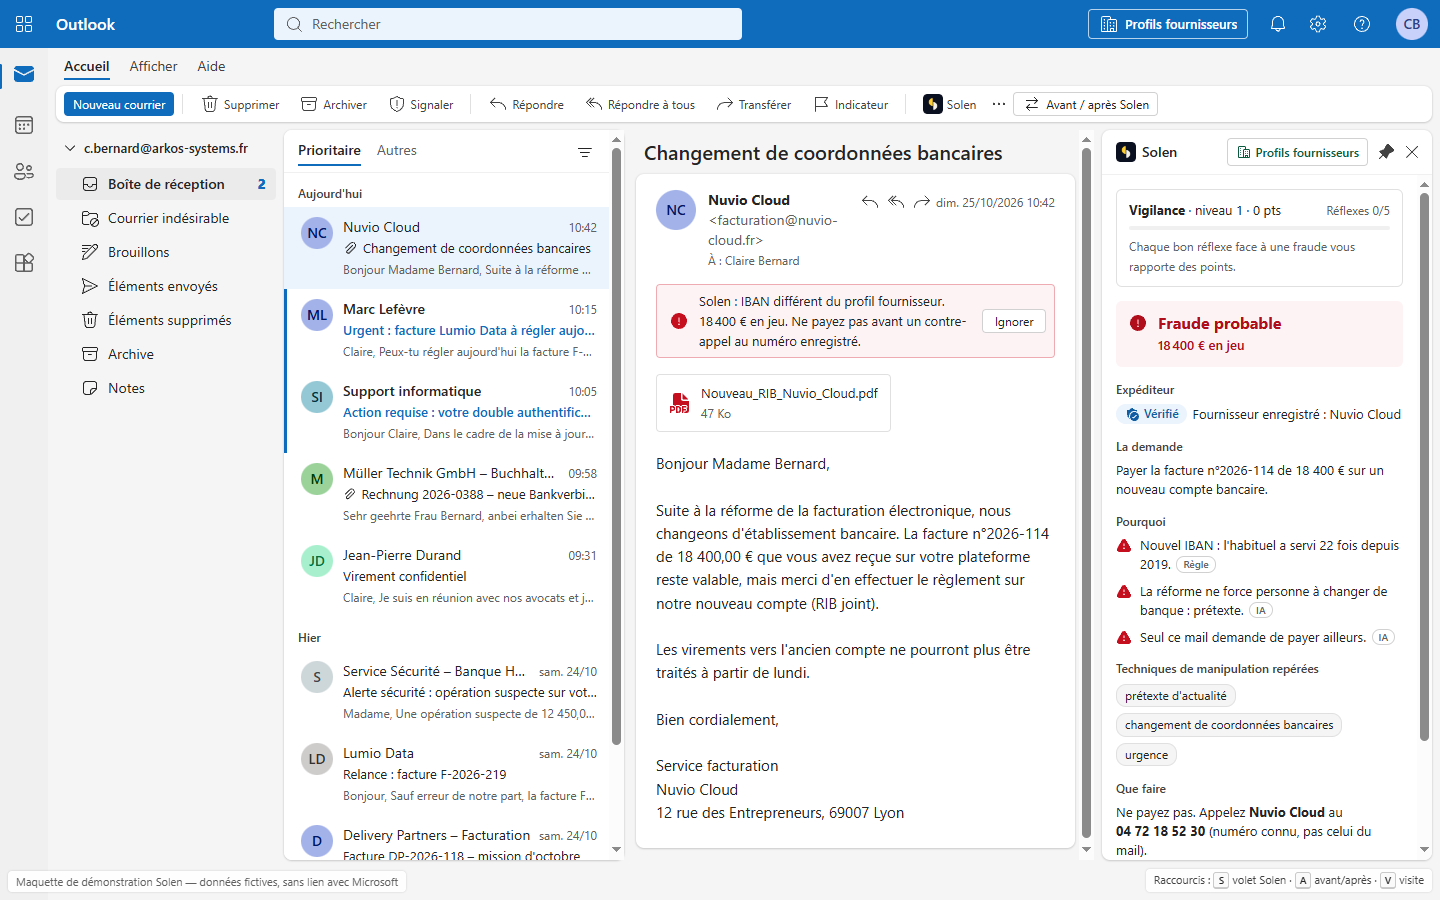
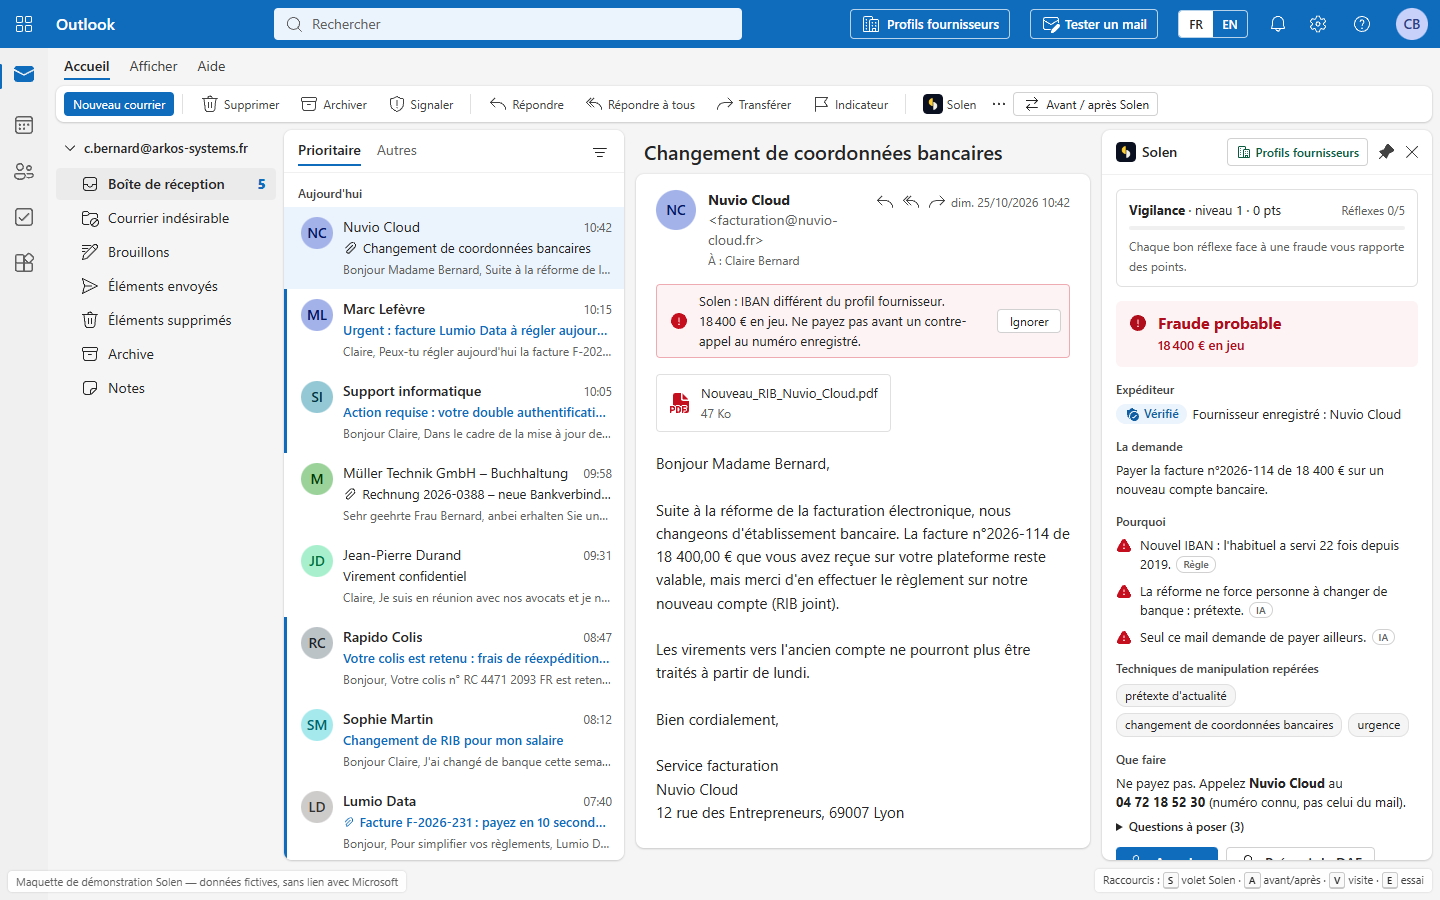
docs: refresh the GIFs and capture, add a "how Solen decides" diagram
- New guided tour GIFs recorded on the 17-mail inbox: French for
  README.md, English (?lang=en) for README.en.md.
- New static capture with the fake bank details mail and the pane.
- A Mermaid diagram in both READMEs and in the project README shows
  the code checks, the masked AI call and the stricter-of-two verdict.
- README.en.md links the demo in English; the project README explains
  the FR / EN switch and its one limit.

diff --git a/README.en.md b/README.en.md
@@ -2,13 +2,13 @@
 
 [![CI](https://github.com/barrage75/solen/actions/workflows/ci.yml/badge.svg)](https://github.com/barrage75/solen/actions/workflows/ci.yml) [![28 attacks tested](https://img.shields.io/badge/attacks%20tested-28%2F28-2ea44f)](https://solen-demo.vercel.app/attaques) ![TypeScript](https://img.shields.io/badge/TypeScript-strict-3178c6?logo=typescript&logoColor=white) ![Next.js 16](https://img.shields.io/badge/Next.js-16-000000?logo=nextdotjs)
 
-[![Try the live demo](https://img.shields.io/badge/%E2%96%B6%20Try%20the%20demo-solen--demo.vercel.app-FFD43B?style=for-the-badge&labelColor=0B1120)](https://solen-demo.vercel.app)
+[![Try the live demo](https://img.shields.io/badge/%E2%96%B6%20Try%20the%20demo-solen--demo.vercel.app-FFD43B?style=for-the-badge&labelColor=0B1120)](https://solen-demo.vercel.app/?lang=en)
 
 [Version française](README.md)
 
 Solen is a mailbox add-in that catches email scams: fake bank detail changes, CEO fraud, payroll diversion, gift card scams, fake bank advisers, fake parcel fees, fake tax refunds, fake invoices, booby-trapped attachments and QR codes, phishing and lookalike domains. It explains each fraud to the user in plain French. Deterministic code makes the call whenever money is at stake. The AI (Mistral) reads and explains the request, never sees an IBAN, and can only make the verdict stricter.
 
-![Guided tour of the demo: Solen stops a fake bank detail change, then a CEO fraud](solen/docs/demo-solen.gif)
+![Guided tour of the demo: Solen stops a fake bank detail change, then a CEO fraud](solen/docs/demo-solen-en.gif)
 
 Demo built during the Finaxys "Build What's Next" hackathon on 23 and 24 October 2026. All data is fictitious and the demo has no link with Microsoft.
 
@@ -18,11 +18,27 @@ Demo built during the Finaxys "Build What's Next" hackathon on 23 and 24 October
 - **The AI never sees an IBAN.** IBANs and account numbers are replaced with tokens before anything is sent to Mistral.
 - **28 attacks replayed on every test run.** Hidden IBANs, Cyrillic letters in domains, white-on-white prompt injection in a PDF, forged authentication headers, corrupted PDFs, hijacked reply threads. The red-team suite swaps the AI for a trapped one that always answers "safe", and checks that the code still blocks every attack. Watch them replayed live on the [28 attacks page](https://solen-demo.vercel.app/attaques).
 
+## How Solen decides
+
+```mermaid
+flowchart LR
+    M["Incoming email"] --> C["Code checks<br/>SPF, DKIM, DMARC<br/>lookalike domain, impersonation<br/>IBAN vs supplier profile<br/>usual amount"]
+    M -->|"if it is about money"| R["IBANs and account<br/>numbers masked"]
+    R --> IA["Mistral understands<br/>and explains the request"]
+    C --> V{"Final verdict:<br/>the stricter of the two"}
+    IA -->|"can only make it stricter"| V
+    V --> B["Red banner<br/>in the email"]
+    V --> P["Solen pane:<br/>the reasons"]
+    V --> T["Callback on the<br/>registered number"]
+```
+
+The code makes the call whenever money is at stake. The AI never sees an IBAN, and its opinion can never soften the code's verdict.
+
 ## Try the demo
 
-Online, nothing to install: **https://solen-demo.vercel.app**. An animated guided tour starts when the page opens.
+Online, nothing to install: **https://solen-demo.vercel.app/?lang=en**. The demo opens in English, and an animated guided tour starts right away. The FR / EN switch in the header changes the language at any time.
 
-You can also **try your own email** on the [Tester un mail](https://solen-demo.vercel.app/essayer) page: you play the attacker, start from ready-made examples, and Solen analyzes it with the same pane as in the mailbox.
+You can also **try your own email** on the [Try an email](https://solen-demo.vercel.app/essayer?lang=en) page: you play the attacker, start from ready-made examples, and Solen analyzes it with the same pane as in the mailbox.
 
 To run it locally, the Next.js app lives in the [`solen/`](solen/) folder.
 

diff --git a/solen/README.md b/solen/README.md
@@ -36,6 +36,18 @@ La boîte de réception contient 17 mails : 13 arnaques de types différents et 
 
 ## Qui décide quoi
 
+```mermaid
+flowchart LR
+    M["Mail reçu"] --> C["Contrôles du code<br/>SPF, DKIM, DMARC<br/>domaine sosie, usurpation<br/>IBAN comparé au profil<br/>montant habituel"]
+    M -->|"s'il parle d'argent"| R["IBAN et numéros<br/>de compte masqués"]
+    R --> IA["Mistral comprend<br/>la demande et l'explique"]
+    C --> V{"Verdict final :<br/>le plus sévère des deux"}
+    IA -->|"peut seulement aggraver"| V
+    V --> B["Bandeau rouge<br/>dans le mail"]
+    V --> P["Volet Solen :<br/>les raisons"]
+    V --> T["Rappel au<br/>numéro enregistré"]
+```
+
 - **Le code** : authentification de l'expéditeur (SPF, DKIM, DMARC), domaine sosie, usurpation d'un dirigeant, comparaison de l'IBAN avec le profil fournisseur, montant habituel.
 - **Mistral Small** : comprend la demande, la langue et les techniques de manipulation, puis explique en français. Il ne reçoit jamais un IBAN ni un numéro de compte, et son verdict ne peut qu'aggraver celui du code.
 - **Les humains** : un mail ne peut jamais modifier un profil fournisseur. Les profils viennent des paiements passés (page `/fournisseurs`), et Solen propose toujours de rappeler au numéro enregistré.
@@ -132,6 +144,14 @@ La démo s'ouvre sur http://localhost:3000.
 Les raccourcis tiennent en une seule touche, sans Ctrl, Alt ni Maj, et marchent sur un clavier AZERTY comme QWERTY. Ils sont ignorés pendant la visite et dans un champ de saisie. Une aide discrète les rappelle en bas de l'écran.
 
 Le bouton « Profils fournisseurs », dans l'en-tête et dans le volet Solen, ouvre la page `/fournisseurs` dans le même onglet. Elle montre les profils appris des paiements passés, avec les IBAN masqués.
+
+### Démo en anglais
+
+Le bouton FR / EN de l'en-tête passe toute la démo en anglais : interface, 17 mails, volet Solen, visite guidée et pages annexes. Le lien `?lang=en` l'ouvre directement en anglais, et le choix suit le visiteur d'une page à l'autre.
+
+- **Le verdict ne dépend pas de la langue** : l'API analyse toujours le mail d'origine, en français. Seul l'affichage est traduit, par `src/i18n/result.ts`, sans toucher au code de détection.
+- **Un test garantit qu'il ne reste aucun français** : il rejoue les 17 mails et les 28 attaques, et échoue si une phrase produite par le code n'a pas de traduction.
+- **Limite** : avec une vraie clé Mistral, les explications de l'IA restent en français, car sa consigne est écrite en français. La démo publique, sans clé, s'affiche entièrement en anglais.
 
 ### Tester son propre mail
 

diff --git a/README.md b/README.md
@@ -18,9 +18,25 @@ Maquette de démonstration réalisée pendant le hackathon Finaxys « Build What
 - **L'IA ne voit jamais un IBAN.** Les IBAN et numéros de compte sont remplacés par des jetons avant tout envoi à Mistral.
 - **28 attaques rejouées à chaque test.** IBAN cachés, lettres cyrilliques dans un domaine, consigne en blanc sur blanc dans un PDF, faux en-têtes d'authentification, PDF corrompus, conversations détournées. Les tests remplacent l'IA par une IA piégée qui répond toujours « fiable », et vérifient que le code bloque quand même chaque attaque. Vous pouvez les voir rejouées en direct sur la page [28 attaques](https://solen-demo.vercel.app/attaques).
 
+## Comment Solen décide
+
+```mermaid
+flowchart LR
+    M["Mail reçu"] --> C["Contrôles du code<br/>SPF, DKIM, DMARC<br/>domaine sosie, usurpation<br/>IBAN comparé au profil<br/>montant habituel"]
+    M -->|"s'il parle d'argent"| R["IBAN et numéros<br/>de compte masqués"]
+    R --> IA["Mistral comprend<br/>la demande et l'explique"]
+    C --> V{"Verdict final :<br/>le plus sévère des deux"}
+    IA -->|"peut seulement aggraver"| V
+    V --> B["Bandeau rouge<br/>dans le mail"]
+    V --> P["Volet Solen :<br/>les raisons"]
+    V --> T["Rappel au<br/>numéro enregistré"]
+```
+
+Le code tranche dès que de l'argent est en jeu. L'IA ne voit jamais un IBAN, et son avis ne peut jamais adoucir le verdict du code.
+
 ## Essayer la démo
 
-En ligne, sans rien installer : **https://solen-demo.vercel.app**. Une visite guidée animée se lance à l'ouverture.
+En ligne, sans rien installer : **https://solen-demo.vercel.app**. Une visite guidée animée se lance à l'ouverture. Le bouton FR / EN de l'en-tête passe toute la démo en anglais, et le lien https://solen-demo.vercel.app/?lang=en l'ouvre directement en anglais.
 
 Vous pouvez aussi **tester votre propre mail** sur la page [Tester un mail](https://solen-demo.vercel.app/essayer) : vous jouez l'attaquant, avec des exemples prêts à modifier, et Solen l'analyse avec le même volet que dans la boîte mail.
 
